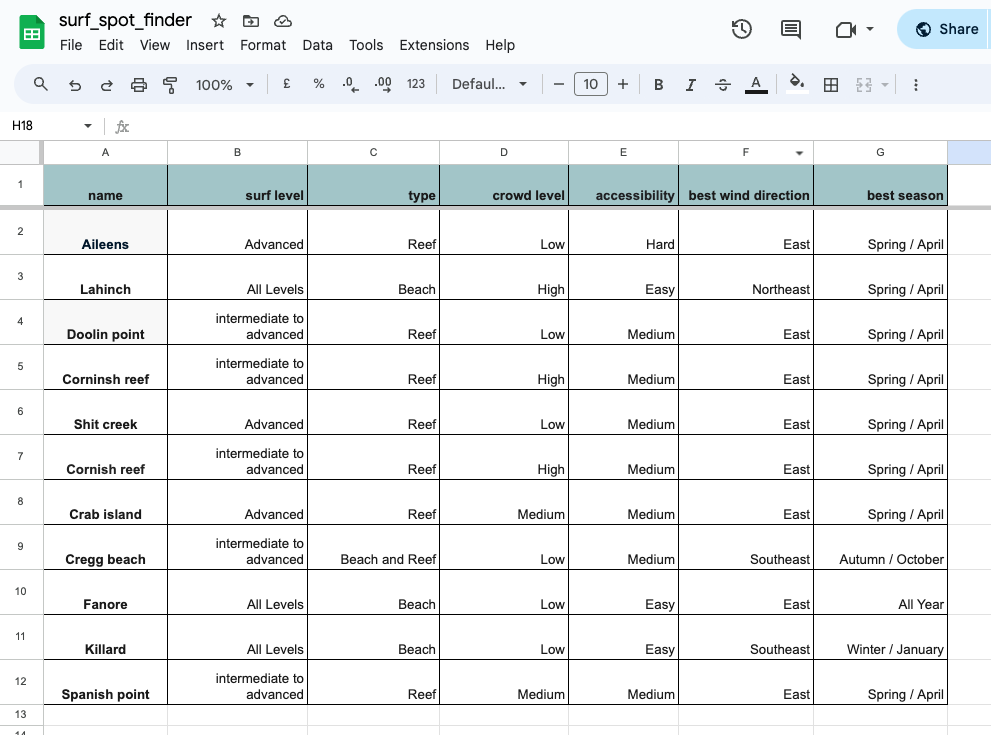
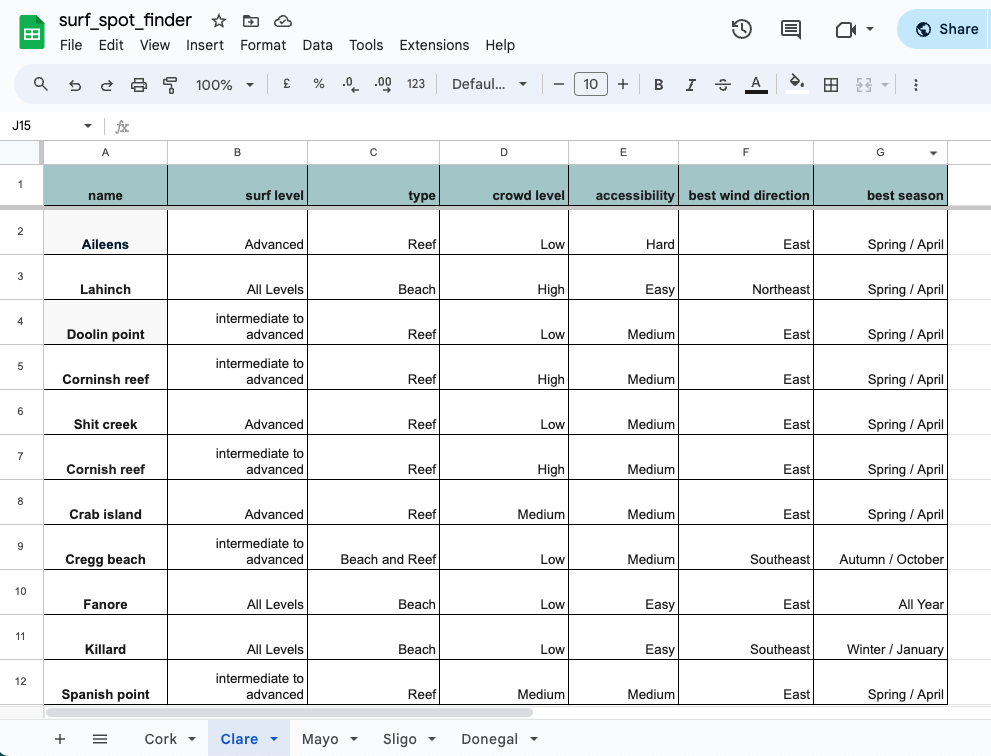
Add solved bug

diff --git a/README.md b/README.md
@@ -67,22 +67,24 @@ It also made it easier for me to navigate the debugging process more efficiently
 
 ### Project SetUp
 
-With this being my first Python project, my main goal was to create an application that displayed data successfully from Google Sheets worksheets to the user based on their input. 
+With this being my first Python project, my main goal was to create an application that displayed data successfully from Google Sheets worksheets to the User based on their input. 
 
 I collected the surf spot information from several websites, which are linked in the Credits section of this ReadMe. I organized the information in a Google Spreadsheet.
 
 Jump to Credits: [Credits](#credits)
 
 
-After that I began by created the major functions to set up the main flow of the application. From there I started adding more detail and smaller functions. I added validation using while loops, as well as user options using if / elif statements. I constantly tested the validation of the user input to make sure that the user would receive the appropriate feedback and the application's flow would not get interrupted. 
+After that I began by created the major functions to set up the main flow of the application. From there I started adding more detail and smaller functions. I added validation using while loops, as well as User options using if / elif statements. I constantly tested the validation of the User input to make sure that the User would receive the appropriate feedback and the application's flow would not get interrupted. 
 
-Once I got the logic up and running I started adding functions that would enhance user experience, like the slow_print and the clear_terminal functions.
+Once I got the logic up and running I started adding functions that would enhance User experience, like the slow_print and the clear_terminal functions.
 
 ### Google Sheets
 
 The worksheet is accessed by myself as the only Editor but I included a View only link to show the distribution of data for the project. 
 
 [View the Google Sheet here.](https://docs.google.com/spreadsheets/d/1KqClUKt4qPwd4cuOM1b8-stC4H44OkL4tIA6QGkQJs0/edit?usp=sharing)
+
+The Google Spreadsheet contains a sheet for each County, where the information for the surf spots in that County are stored. This way it would be easy to add information on surf spots and Counties in the furture.  
 
 ![Google-sheet](README-files/google-sheet.png)
 
@@ -101,26 +103,26 @@ The worksheet is accessed by myself as the only Editor but I included a View onl
 
 ### ASCII Art
 
-ASCII Art is used as a title for the app to improve the user experience and to get the user interested.
+ASCII Art is used as a title for the app to improve the User experience and to add some visual interest.
 
 ![ACSII Art](README-files/banner-surfspot.png)
 
 ### Slow Print
 
-The text in the app are printed slowly to improve user experience and to make sure that the user is not overwhelmed by the text appearing on the screen.
+The text in the app are printed slowly to improve User experience and to make sure that the User is not overwhelmed by the text appearing on the screen.
 
 ### Welcome Message & Counties
 
 * As soon as the page is loaded, the ASCII Art is displayed and a welcome message is gradually printed out. 
 In the welcome message the purpuse of the app is explained. 
 
-* After the welcome message a list of available Counties is displayed and the user is promted to choose a County where they want to go surfing and want to explore.
+* After the welcome message a list of available Counties is displayed and the User is promted to choose a County where they want to go surfing and want to explore.
 
 ![Welcome](README-files/welcome.png)
 
 ### Surfspots
 
-* After choosing a County the terminal is cleared and a list of available surfspots for that County are displayed. The user is asked if they want to explore one of these surfspots or if they want to exit the program.
+* After choosing a County the terminal is cleared and a list of available surfspots for that County are displayed. The User is asked if they want to explore one of these surfspots or if they want to exit the program.
 
 ![Surfspots](README-files/surfspots.png)
 
@@ -128,23 +130,23 @@ In the welcome message the purpuse of the app is explained.
 
 * After choosing a spot more detailed information is given about the chosen spot.
 
-* After more detailed info is given about the chosen surfspot, the user can choose between 3 options on how to continue in the app. They can either choose another surfspot in the same County, choose a different County they want to explore or exit the program.
+* After more detailed info is given about the chosen surfspot, the User can choose between 3 options on how to continue in the app. They can either choose another surfspot in the same County, choose a different County they want to explore or exit the program.
 
 ![Spot Details](README-files/spot-details.png)
 
 ### Goodbye Message
 
-* If the user chooses to leave the program a goodbye message is displayed. 
+* If the User chooses to leave the program a goodbye message is displayed. 
 
 ![Goodbye](README-files/goodbye.png)
 
 
 ### Future Implementations
 
-* In the future, I could implement the user name usage and favorite surf spots tracking functionality.
+* In the future, I could implement the User name and favorite surf spots tracking functionality.
 * In the future I would like to add more information to the database, and cover all (coastal) Counties.
 * Through further learning I would like to use a weather forcast API to add information to the surf spot details with current weather conditions.
-* I would have loved to add a feature that user can store their favorite surf spots. After finishing the course I would like to come back to this project and create this feature. 
+* I would have loved to add a feature that User can store their favorite surf spots. After finishing the course I would like to come back to this project and create this feature. 
 
 *** 
 
@@ -178,17 +180,17 @@ In the welcome message the purpuse of the app is explained.
 
 The [CI Python Linter](https://pep8ci.herokuapp.com/#) is used for validation python code. The run.py file was checked and a few errors were reported:
 
-![alt text](README-files/pep8.png)
+![pep8](README-files/pep8.png)
 
 <br>
 After fixing the errors, no errors were reported:
 
-![alt text](README-files/pep8-after.png) 
+![pep-8-after](README-files/pep8-after.png) 
 
 
 ### Input Testing
 
-During developments user input has been tested frequently to check if various inputs were valid, namely if the validation functions were catching all errors as expected. It was important that the user could easily navigate back to different County and surfspot options, as well as exiting the program. When testing user input I have repeatedly used the same set of input values: "Enter button only", "test" and "123".
+During developments User input has been tested frequently to check if various inputs were valid, namely if the validation functions were catching all errors as expected. It was important that the User could easily navigate back to different County and surfspot options, as well as exiting the program. When testing User input I have repeatedly used the same set of input values: "Enter button only", "test" and "123".
 
 All tests were completed in the local terminal as well as in the Heroku terminal.
 
@@ -210,7 +212,9 @@ Surf Spot Finder was tested through the Heroku app website on the following brow
 
 ## Solved Bugs
 
+* One bug that came up during testing was quite interesting and was only discovered by accident. The correct name for a County was entered, but accidentally had a blank space in front of it, the input was returned as not valid. After looking into this, I found that this could be solved by calling the .strip() function before calling the .capitalize() function on the User input:
 
+ ![blank space bug](README-files/blank-bug.png)
 
 ***
 
